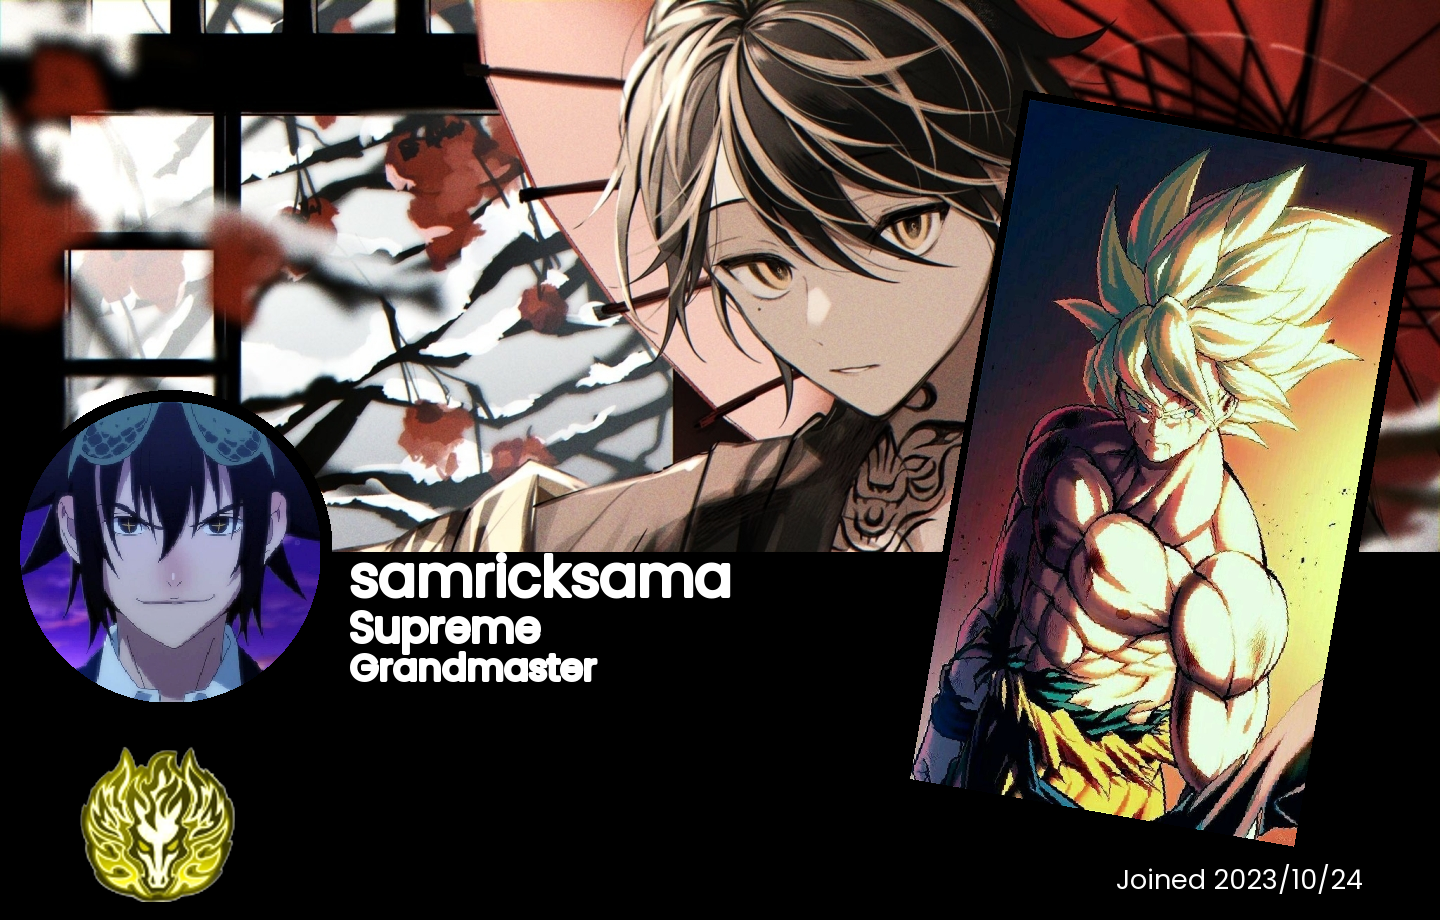
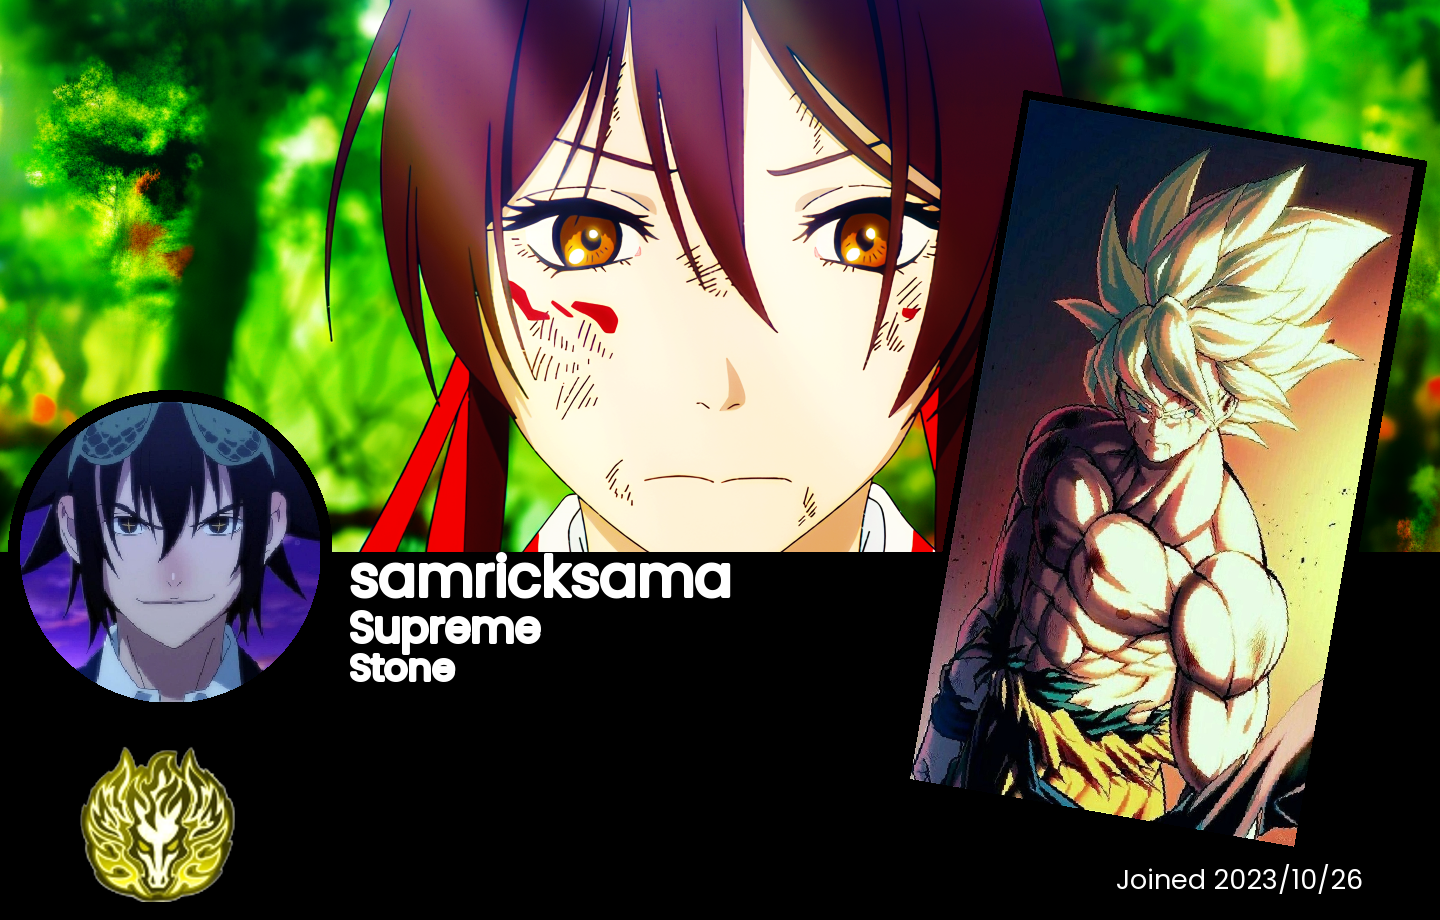
Viewrank update with emoji, idk custum emoji fr

diff --git a/main.py b/main.py
@@ -16,6 +16,7 @@ from webserver import keep_alive
 from discord.ext.commands import check
 import imageio
 from discord.ui import View
+import io
 
 # Define the path to the folder containing your background images
 BACKGROUND_FOLDER = './Assets/Backgrounds/'
@@ -1310,17 +1311,17 @@ def load_rank_data():
 rank_data = load_rank_data()
 
 rank_thresholds = {
-    "Nobda": 0,
-    "Wooden": 10,
+    "Novice": 0,
+    "Rookie": 10,
     "Stone": 20,
     "Bronze": 30,
     "Silver": 50,
-    "Gold": 80,
-    "Platinum": 130,
-    "Diamond": 210,
-    "Master": 340,
-    "Grandmaster": 550,
-    "Legendary": 850
+    "Golden": 80,
+    "Titan": 130,
+    "Supreme": 210,
+    "Heroic": 340,
+    "Legend": 550,
+    "Saiyan": 850
 }
 
 
@@ -1329,17 +1330,17 @@ rank_thresholds = {
 async def tierlist(ctx):
   # Define the rank thresholds
   rank_thresholds = {
-      "Nobda": 0,
-      "Wooden": 10,
+      "Novice": 0,
+      "Rookie": 10,
       "Stone": 20,
       "Bronze": 30,
       "Silver": 50,
-      "Gold": 80,
-      "Platinum": 130,
-      "Diamond": 210,
-      "Master": 340,
-      "Grandmaster": 550,
-      "Legendary": 850
+      "Golden": 80,
+      "Titan": 130,
+      "Supreme": 210,
+      "Heroic": 340,
+      "Legend": 550,
+      "Saiyan": 850
   }
 
   # Create an embedded message to display the tier list
@@ -1361,14 +1362,43 @@ async def tierlist(ctx):
 @bot.command()
 @is_registered()
 async def viewrank(ctx):
-  user_id = str(ctx.author.id)
-  profile = user_profiles.get(user_id)
+    user_id = str(ctx.author.id)
+    profile = user_profiles.get(user_id)
 
-  if profile and "rank" in profile:
-    rank = profile["rank"]
-    await ctx.send(f"Your rank is: {rank}")
-  else:
-    await ctx.send("Rank not found.")
+    if profile and "rank" in profile:
+        rank = profile["rank"]
+        user = ctx.author
+        user_avatar = user.avatar.url if user.avatar else user.default_avatar.url
+
+        # Define a dictionary mapping ranks to text-based emojis
+        rank_icons = {
+            "Novice": "😊",
+            "Rookie": ":full_moon_with_face:",
+            "Stone": ":rock:",
+            "Bronze": "🥉",
+            "Silver": "🥈",
+            "Golden": "🥇",
+            "Titan": "🏋♂",
+            "Supreme": "👑",
+            "Heroic": "⚡",
+            "Legend": "🏆",
+            "Saiyan": "🐉"
+        }
+
+        embed = discord.Embed(
+            title=f"{user.display_name}'s Rank",
+            color=discord.Color.gold()
+        )
+
+        # Display the user's username and their rank at the top
+        embed.description = f"{rank} \n {rank_icons.get(rank, 'Rank icon not found')}"
+
+        # Set the user's avatar as the thumbnail
+        embed.set_thumbnail(url=user_avatar)
+
+        await ctx.send(embed=embed)
+    else:
+        await ctx.send("Rank not found.")
 
 
 @bot.command(name='rankupdate')
